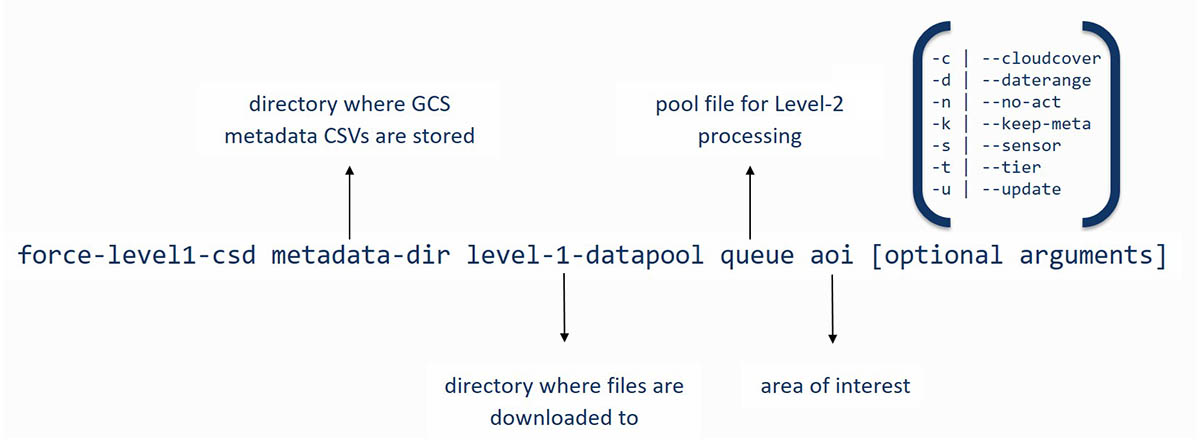
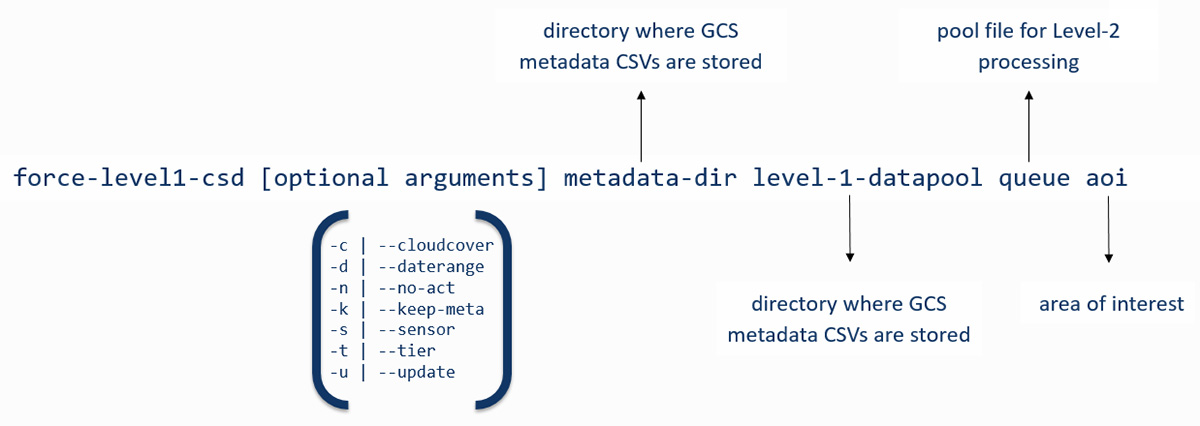
implemented David's feedback, added satellite id in filtered metadata.csv

diff --git a/docs/source/howto/level1-csd.rst b/docs/source/howto/level1-csd.rst
@@ -1,9 +1,10 @@
 .. _tut-l1csd:
 
+
 Level 1 Cloud Storage Downloader
 ================================
 
-**Downloading Landsat and Sentinel-2 Level-1 data from cloud services**
+**How to download Landsat and Sentinel-2 Level-1 data from cloud services**
 
 This tutorial covers the process of querying and downloading Landsat and Sentinel-2 Level 1 data from cloud services (currently Google Cloud Storage).
 FORCE Level 1 CSD offers a high level of detail in requesting data and creates a consistent Level 1 data pool, as well as queue files that can be used for Level 2 processing.
@@ -12,17 +13,20 @@ FORCE Level 1 CSD offers a high level of detail in requesting data and creates a
 
    *This tutorial uses FORCE v. 3.5*
 
-FORCE Level 1 CSD makes use of the Landsat and Sentinel-2 metadata catalogues from Google Cloud Storage to find scenes matching the user's requirements and downloads them through `gsutil <https://cloud.google.com/storage/docs/gsutil>`_. A check for scenes already existing locally is performed and only new scenes are downloaded.
+FORCE Level 1 CSD makes use of the Landsat and Sentinel-2 metadata catalogues from Google Cloud Storage to find scenes matching the user's requirements and downloads them through `gsutil <https://cloud.google.com/storage/docs/gsutil>`_.
+A check for scenes already existing locally is performed and only new scenes are downloaded.
 
 
 Getting started
 ---------------
 
+
 gsutil configuration
 """"""""""""""""""""
 
 Currently, Landsat data can be downloaded without a login (this will change at some point), but downloading Sentinel-2 data requires authentication.
-This is done through gsutil and only needs to be done once before the first run. The credentials will be stored in a file called ``.boto`` in the user's home directory (make sure to check the notes at the end of this document if you're running FORCE in Docker).
+This is done through gsutil and only needs to be done once before the first run.
+The credentials will be stored in a file called ``.boto`` in the user's home directory (make sure to check the notes at the end of this document if you're running FORCE in Docker).
 
 Type the following command to start the authorization process
 
@@ -31,13 +35,16 @@ Type the following command to start the authorization process
     gsutil config
 
 
-Follow the on-screen instructions to authorize access to the Google Cloud Platform APIs. A project name is not required, just hit enter or make up a name when asked.
+Follow the on-screen instructions to authorize access to the Google Cloud Platform APIs.
+A project name is not required, just hit enter or make up a name when asked.
+
 
 Downloading the metadata catalogues
 """""""""""""""""""""""""""""""""""
 
-The metadata catalogues contain metadata for all scenes stored on Google Cloud Storage. This includes all the information we need to find data that matches our needs - location, date, cloud cover estimates, sensor, etc...
+The metadata catalogues contain metadata for **all** scenes stored on Google Cloud Storage.
 The ``-u | --update`` option will download the latest (compressed) catalogues and extract them to the metadata directory specified by the user.
+As the catalogues are fairly large (curently ~2.8 GB for Landsat and 5.9 GB for Sentinel-2), it is a good idea to place them in a shared location that can be accessed by several users.
 
 .. code-block:: none
 
@@ -52,17 +59,22 @@ The ``-u | --update`` option will download the latest (compressed) catalogues an
     Done. You can run this script without option -u to download data now.
 
 
-The ``-s | --sensor`` option may be used if only one of the two catalogues need to be downloaded / updated. Specifying one of the sensors of either family is sufficient (i.e., LT05 for Landsat or S2B for Sentinel-2).
+The ``-s | --sensor`` option may be used if only one of the two catalogues need to be downloaded / updated.
+Specifying one of the sensors of either family is sufficient (i.e., LT05 for Landsat or S2B for Sentinel-2).
+
 
 Parameterization
 ----------------
 
+
 Basic syntax
 """"""""""""
 
-FORCE Level-1 CSD is parameterized with four mandatory arguments. These make up the core of the request and always need to be provided, while all remaining arguments are optional. The basic structure is visualized in the image below.
+FORCE Level-1 CSD is parameterized with four mandatory arguments.
+These make up the core of the request and always need to be provided, while all remaining arguments are optional. The basic structure is visualized in the image below.
 
 .. figure:: img/tutorial-l1csd-syntax.jpg
+
 
 Mandatory arguments
 """""""""""""""""""
@@ -89,7 +101,7 @@ Mandatory arguments
       If on the command line, provide a comma separated list.
   (2) a shapefile (point/polygon/line). On-the-fly reprojection is provided,
       but using EPSG4326 is recommended.
-  (3) grid identifier:
+  (3) scene identifier:
       Landsat: Path/Row as "PPPRRR". Make sure to keep leading zeros:
         correct: 181034, incorrect: 18134
       Sentinel-2: MGRS tile as "TXXXXX". Make sure to keep the leading T before
@@ -98,10 +110,23 @@ Mandatory arguments
       If in a file, provide one ID per line.
       If on the command line, provide a comma separated list.
 
-The first three arguments specify the local directories for the metadata catalogues, the level 1 datapool (download directory), and the processing queue. We define our area of interest with the fourth argument. FORCE Level 1 CSD offers quite some flexibility in how the aoi can be specified. Options ``(1)`` and ``(2)`` will intersect the provided geometries with the tiling scheme of Landsat and/or Sentinel-2, while option ``(3)`` the third option can be used if we already know which Landsat path/row or Sentinel-2 tiles we need. If you want to specify coordinates or a list of grid identifiers on the command line, keep in mind that the maximum length of command line calls is limited and varies by system! So your lists may just be cut off and in the worst case you won't notice before it's too late. You may be better off storing them in a text file. Make sure this file uses UNIX end of line characters and provide one coordinate pair or grid identifier per line.
+
+The first three arguments specify the local directories for the metadata catalogues, the level 1 datapool (download directory), and the processing queue.
+We define our area of interest with the fourth argument.
+FORCE Level 1 CSD offers quite some flexibility in how the aoi can be specified.
+Options ``(1)`` and ``(2)`` will intersect the provided geometries with the reference systems of Landsat and/or Sentinel-2.
+Option ``(3)`` can be used if we already know which Landsat path/row or Sentinel-2 tiles we need.
+
+.. caution::
+    If you would like to specify coordinates or a list of scene identifiers on the command line, keep in mind that the maximum length of command line calls is limited and varies by system!
+    The lists may just be cut off and in the worst case you won't notice before it's too late.
+    You may be better off storing them in a text file.
+    Make sure this file uses UNIX end of line characters and provide one coordinate pair or grid identifier per line.
+
 
 Optional arguments
-"""""""""""""""""""
+""""""""""""""""""
+
 Four of the optional arguments can be used to narrow down our search results:
 
 .. code-block:: none
@@ -130,7 +155,15 @@ Four of the optional arguments can be used to narrow down our search results:
   Landsat collection tier level. Valid tiers: T1,T2,RT
   Default: T1
 
-We can filter by cloud cover estimate, date range, sensor, and tier (Landsat only). If these parameters aren't set, they will default to the values above. Note that the default search is a very broad one. It will basically return all Landsat **and** Sentinel-2 scenes ever acquired for the area of interest. The only exception is the Tier level for Landsat - only Tier 1 scenes will be included, as Tier 2 and Real Time scenes are not desirable for most applications.
+
+We can filter by cloud cover estimate, date range, sensor, and tier (Landsat only).
+If these parameters aren't set, they will default to the values above.
+
+.. caution::
+
+  Note that the default search is a very broad one. It will basically return all Landsat **and** Sentinel-2 scenes ever acquired for the area of interest.
+  The only exception is the Tier level for Landsat - only Tier 1 scenes will be included, as Tier 2 and Real Time scenes are not desirable for most applications.
+
 
 There are two further optional arguments that don't affect the search parameters, but change the behavior of FORCE Level 1 CSD:
 
@@ -146,22 +179,32 @@ There are two further optional arguments that don't affect the search parameters
   at the same time. Filename: csd_metadata_YYYY-MM-DDTHH-MM-SS
 
 
-**Please note** that the mandatory arguments are positional! They need to be provided in this exact order. The optional arguments can be placed anywhere and may also be combined. For example, ``-n -k -c 0,70`` could also be written as ``-nkc 0,70``. When values are passed to the optional arguments (cloud cover, date range, sensor, or tier), these must be separated by commas ``,`` and must not contain whitespace.
+.. note::
+
+    The mandatory arguments are positional!
+    They need to be provided in this exact order.
+    The optional arguments can be placed anywhere and may also be combined.
+    For example, ``-n -k -c 0,70`` could also be written as ``-nkc 0,70``.
+    When values are passed to the optional arguments (cloud cover, date range, sensor, or tier), these must be separated by commas ``,`` and must not contain whitespace.
+
 
 Querying and downloading data
 -----------------------------
 
+
 Basic search
 """"""""""""
 
-Now that the FORCE Level 1 CSD is set up and we got the basic syntax straight, we can start looking for scenes that match our needs. Let's start with a very broad search using a geopackage file defining our area of interest (the city-state of Berlin, Germany) as polygon feature. You may also use point or line features as aois.
+Now that the FORCE Level 1 CSD is set up and we got the basic syntax straight, we can start looking for scenes that match our needs.
+Let's start with a very broad search using a geopackage file defining our area of interest (the city-state of Berlin, Germany) as polygon feature.
 
-To get a first overview of the data volume, we will use the ``-n | --no-act`` option. This will print information about the results of our search without actually downloading the data.
+To get a first overview of the data volume, we will use the ``-n | --no-act`` option.
+This will print information about the results of our search without actually downloading the data.
 
 
 .. code-block:: none
 
-    force-level1-csd meta gcs_berlin/level1 gcs_berlin/level1/l1_pool.txt gcs_berlin/berlin_aoi.gpkg -n
+    force-level1-csd -n meta gcs_berlin/level1 gcs_berlin/level1/l1_pool.txt gcs_berlin/berlin_aoi.gpkg
 
     Landsat and Sentinel-2 data requested.
     Landsat data will be queried and downloaded first.
@@ -194,14 +237,17 @@ To get a first overview of the data volume, we will use the ``-n | --no-act`` op
 
 FORCE Level 1 CSD will print all details about the query parameters, as well as number of scenes found and total data volume for Landsat and Sentinel-2 data.
 
+
 Refining the search parameters
 """"""""""""""""""""""""""""""
 
-Even though our area of interest is small, the data volume is substantial. Let's say we're only interested in Sentinel-2B data from the year 2019 with cloud cover less than 70%. We can use the ``-c | --cloud-cover`` to define the cloud cover threshold, ``-d | --daterange`` to only retrieve scenes between Jan 1, 2019 and Dec 31, 2019, and ``-s | --sensor`` to specify S2B as target sensor.
+Even though our area of interest is small, the data volume is substantial.
+Let's say we're only interested in Sentinel-2B data from the year 2019 with cloud cover less than 70%.
+We can use the ``-c | --cloud-cover`` to define the cloud cover threshold, ``-d | --daterange`` to only retrieve scenes between Jan 1, 2019 and Dec 31, 2019, and ``-s | --sensor`` to specify S2B as target sensor.
 
 .. code-block:: none
 
-    force-level1-csd meta gcs_berlin/level1 gcs_berlin/level1/l1_pool.txt gcs_berlin/berlin_aoi.gpkg -n -c 0,70 -d 20190101,20190430 -s S2B
+    force-level1-csd -n -c 0,70 -d 20190101,20190430 -s S2B meta gcs_berlin/level1 gcs_berlin/level1/l1_pool.txt gcs_berlin/berlin_aoi.gpkg
 
     Searching for footprints / tiles intersecting with geometries of AOI shapefile...
 
@@ -217,17 +263,24 @@ Even though our area of interest is small, the data volume is substantial. Let's
     Done.
 
 
-That makes a huge difference - we're down from 1.78TB to 49.44GB of data. However, considering the Sentinel-2 tiling scheme, there still may be some redundancy in the data. We can see that FORCE Level 1 CSD found five MGRS tiles intersecting with the AOI. That's quite a lot of tiles if we consider that Berlin covers less than 900km², while each S2 tile is 12.100km² large. Let's take a look at how our area of interest is located in relation to the Sentinel-2 MGRS tiling grid:
+That makes a huge difference - we're down from 1.78TB to 49.44GB of data.
+However, considering the Sentinel-2 reference system, there still may be some redundancy in the data.
+We can see that FORCE Level 1 CSD found five MGRS tiles intersecting with the AOI.
+That's quite a lot of tiles if we consider that Berlin covers less than 900km², while each S2 tile is 12.100km² large.
+Let's take a look at how our area of interest is located in relation to the Sentinel-2 MGRS reference system:
 
 .. figure:: img/tutorial-l1csd-s2grid-berlin.jpg
 
-    AOI (blue polygon) in relation to the Sentinel-2 tiling grid (black lines).
+    AOI (blue polygon) in relation to the Sentinel-2 reference system (black lines).
 
-As we can see, the two northern tiles are probably sufficient to get all the data we need. The north/south overlap of T33UUU/T33UUT and T33UVU/T33UVT does not provide additional data, neither does the overlap of T33UUU and T33UQD. We can directly specify the desired tiles (comma-separated) as aoi:
+
+As we can see, the two northern tiles are probably sufficient to get all the data we need.
+The north/south overlap of T33UUU/T33UUT and T33UVU/T33UVT does not provide additional data, neither does the overlap of T33UUU and T33UQD.
+We can directly specify the desired tiles (comma-separated) as aoi:
 
 .. code-block:: none
 
-    force-level1-csd meta gcs_berlin/level1 gcs_berlin/level1/l1_pool.txt T33UUU,T33UVU -n -c 0,70 -d 20190101,20191231 -s S2B
+    force-level1-csd -n -c 0,70 -d 20190101,20191231 -s S2B meta gcs_berlin/level1 gcs_berlin/level1/l1_pool.txt T33UUU,T33UVU
 
     Querying the metadata catalogue for Sentinel2 data
     Sensor(s): S2B
@@ -241,11 +294,14 @@ As we can see, the two northern tiles are probably sufficient to get all the dat
     Done.
 
 
+Download
+""""""""
+
 When we're happy with the results, we can remove the ``-n | --no-act`` option to start downloading
 
 .. code-block:: none
 
-    force-level1-csd meta gcs_berlin/level1 gcs_berlin/level1/l1_pool.txt T33UUU,T33UVU -c 0,70 -d 20190101,20191231 -s S2B
+    force-level1-csd -c 0,70 -d 20190101,20191231 -s S2B meta gcs_berlin/level1 gcs_berlin/level1/l1_pool.txt T33UUU,T33UVU
 
     Querying the metadata catalogue for Sentinel2 data
     Sensor(s): S2B
@@ -264,36 +320,72 @@ When we're happy with the results, we can remove the ``-n | --no-act`` option to
     |===========                                                                            |  13 %
 
 
-The status bar will update after every scene that has successfully been downloaded. Any scenes that have already been downloaded will be skipped and a notification will be printed. If the download was canceled at some point and a scene wasn't fully downloaded, FORCE Level 1 CSD will delete that scene and redownload it.
+General notes
+-------------
 
 
-A note on Sentinel-2 scenes
-"""""""""""""""""""""""""""
+Scenes are stored in folders named after their corresponding path/row (Landsat) or MGRS tile (Sentinel-2).
+The status bar will update after every scene that has successfully been downloaded.
+Any scenes that have already been downloaded will be skipped and a notification will be printed.
+If the download was canceled at some point and a scene wasn't fully downloaded, FORCE Level 1 CSD will delete that scene and redownload it.
 
-The processing baseline for Landsat data is standardized by the Collection format. For Sentinel-2 we found that there were duplicate scenes with different processing baselines or processing dates. FORCE Level 1 CSD will check for duplicates and only download the version with the highest processing baseline or latest processing date if the processing baseline is the same.
+
+Sentinel-2 scenes
+"""""""""""""""""
+
+
+The processing baseline for Landsat data is standardized by the Collection format.
+For Sentinel-2 we found that there were duplicate scenes with different processing baselines or processing dates.
+FORCE Level 1 CSD will check for duplicates and only download the version with the highest processing baseline or latest processing date if the processing baseline is the same.
 
 
 Saving metadata
 ---------------
 
-FORCE Level 1 CSD offers the possibility to save the metadata of the scenes that matched the specified requirements. Having easy access to this kind of information can be very helpful when creating statistics and visualizations about data availability over time, cloud cover distribution over time, data volume (e.g., per sensor or year), etc. Using the ``-k | --keep-meta`` option will save the results of the current query to the Level 1 datapool folder under the file name
+FORCE Level 1 CSD offers the possibility to save the metadata of the scenes that matched the specified requirements.
+Having easy access to this kind of information can be very helpful when creating statistics and visualizations about data availability over time, cloud cover distribution over time, data volume (e.g., per sensor or year), etc.
+Using the ``-k | --keep-meta`` option will save the results of the current query to the Level 1 datapool folder under the file name
 
 .. code-block:: none
 
-    csd_metadata_YYYY-MM-DDTHH-MM-SS.txt
+    csd_metadata_[platform]_YYYY-MM-DDTHH-MM-SS.txt
 
+
+The timestamp refers to the time when the request was made.
+``[platform]`` refers to the satellite platform (Landsat or Sentinel-2).
 
 The ``-k | --keep-meta`` option can be combined with the ``-n | --no-act`` option to acquire the metadata without downloading any data.
-If Landsat and Sentinel-2 data is queried at the same time, two separate files will be created. Please note that Google's metadata catalogues use different column names for Landsat and Sentinel-2.
+If Landsat and Sentinel-2 data is queried at the same time, two separate files will be created.
 
+.. code-block:: none
 
-Scenes from the same path/row (Landsat) or MGRS tile (Sentinel-2) are stored in folders
+    ls gcs_berlin/level1
+
+    csd_metadata_2020-10-01T19-48-16.txt
+    csd_metadata_2020-10-01T19-48-21.txt
+    l1_pool.txt
+    T33UUU
+    T33UVU
+
+.. note::
+
+    When analyzing metadata, keep in mind that Google's catalogues use different column names for Landsat and Sentinel-2.
+
+    .. code-block:: none
+
+        head -n 1 edc/level1/metadata_landsat.csv
+        SCENE_ID,PRODUCT_ID,SPACECRAFT_ID,SENSOR_ID,DATE_ACQUIRED,COLLECTION_NUMBER,COLLECTION_CATEGORY,SENSING_TIME,DATA_TYPE,WRS_PATH,WRS_ROW,CLOUD_COVER,NORTH_LAT,SOUTH_LAT,WEST_LON,EAST_LON,TOTAL_SIZE,BASE_URL
+
+        head -n 1 edc/level1/metadata_sentinel2.csv
+        GRANULE_ID,PRODUCT_ID,DATATAKE_IDENTIFIER,MGRS_TILE,SENSING_TIME,TOTAL_SIZE,CLOUD_COVER,GEOMETRIC_QUALITY_FLAG,GENERATION_TIME,NORTH_LAT,SOUTH_LAT,WEST_LON,EAST_LON,BASE_URL
 
 
 Information for Docker users
 ----------------------------
 
-If you are running FORCE in Docker, there won't be user folder in the home directory. This is a problem for gsutil as the config file is stored there by default. You can work around this by mounting the folder where your ``.boto`` file is located and set an environment variable that points gsutil there. If you're only running gsutil in the docker image, you don't need to mount your local folder. Just set the environment variable ``BOTO_CONFIG`` to wherever you'd like to store the config and run ``gsutil config``.
+If you are running FORCE in Docker, there won't be user folder in the home directory.
+This is a problem for gsutil as the config file is stored there by default.
+You can work around this by mounting the folder where your ``.boto`` file is located and set an environment variable that points gsutil there.
 
 .. code-block:: none
 
@@ -301,12 +393,16 @@ If you are running FORCE in Docker, there won't be user folder in the home direc
     # -v mounts a folder in docker, --env sets an environment variable in docker
     docker run -it -v /home/yourusername/:/credentials --env BOTO_CONFIG=/credentials/.boto
 
+------------
 
-+-----------------------------------------------------------------------------------+
-+ This tutorial was written by                                                      +
-+ Stefan Ernst,                                                                     +
-+ contributor to **FORCE**,                                                         +
-+ researcher at `EOL <https://www.geographie.hu-berlin.de/en/professorships/eol>`_. +
-+-----------------------------------------------------------------------------------+
-+ **EO**, **ARD**, **Data Science**, **Open Science**                               +
-+-----------------------------------------------------------------------------------+
+.. |author-pic| image:: profile/sernst.jpg
+
+
++--------------+------------------------------------------------------------------------------------------------------------+
++ |author-pic| + This tutorial was written by                                                                               +
++              + `Stefan Ernst <https://www.geographie.hu-berlin.de/en/professorships/eol/people/labmembers/stefan-ernst>`_,+
++              + contributor to **FORCE**,                                                                                  +
++              + researcher at `EOL <https://www.geographie.hu-berlin.de/en/professorships/eol>`_.                          +
++--------------+------------------------------------------------------------------------------------------------------------+
++ **EO**, **ARD**, **Data Science**, **Open Science**                                                                       +
++--------------+------------------------------------------------------------------------------------------------------------+
